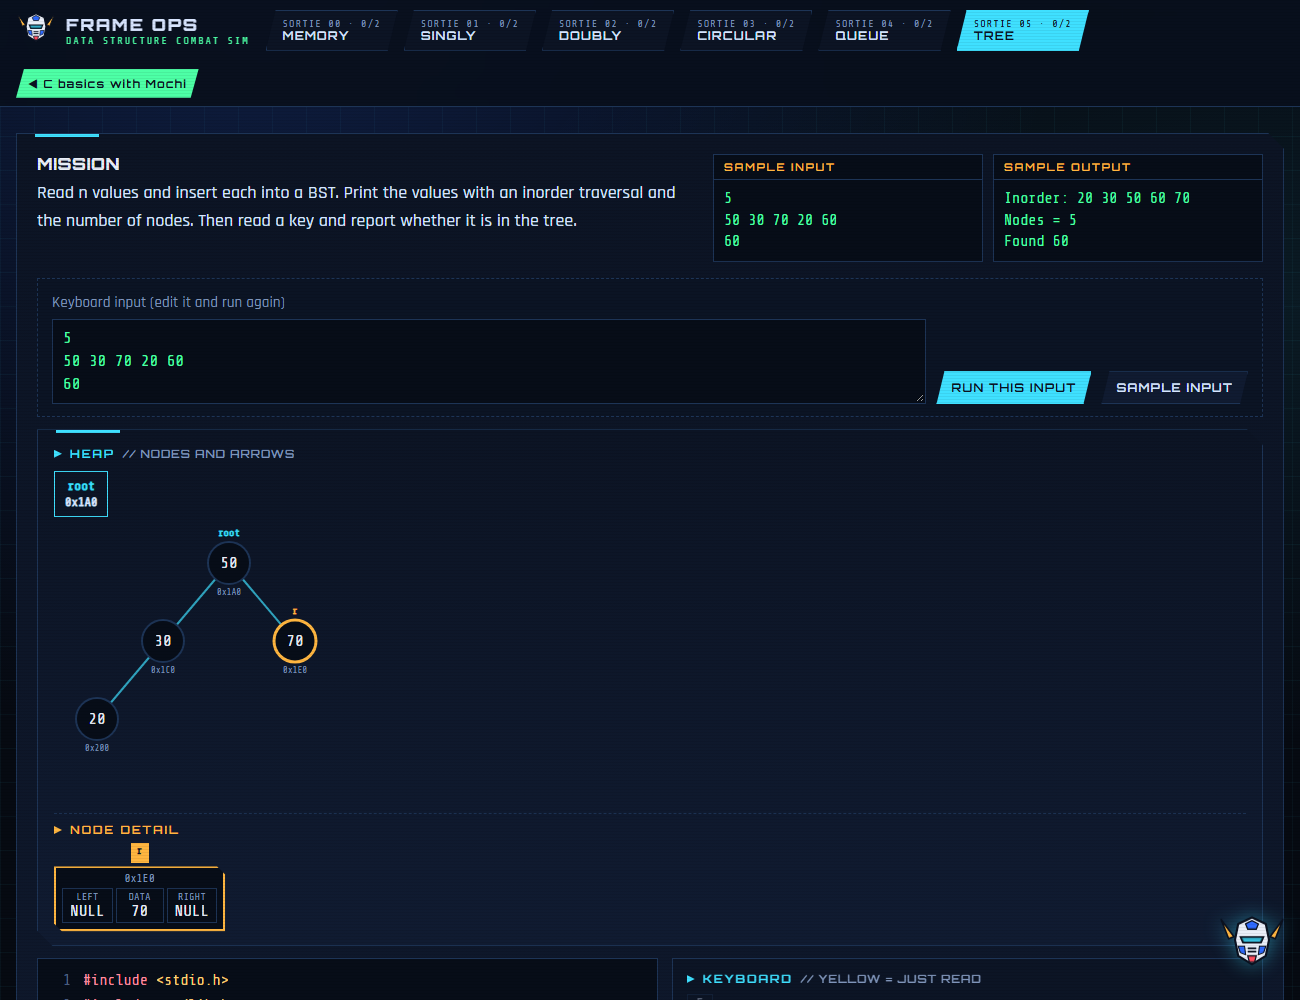
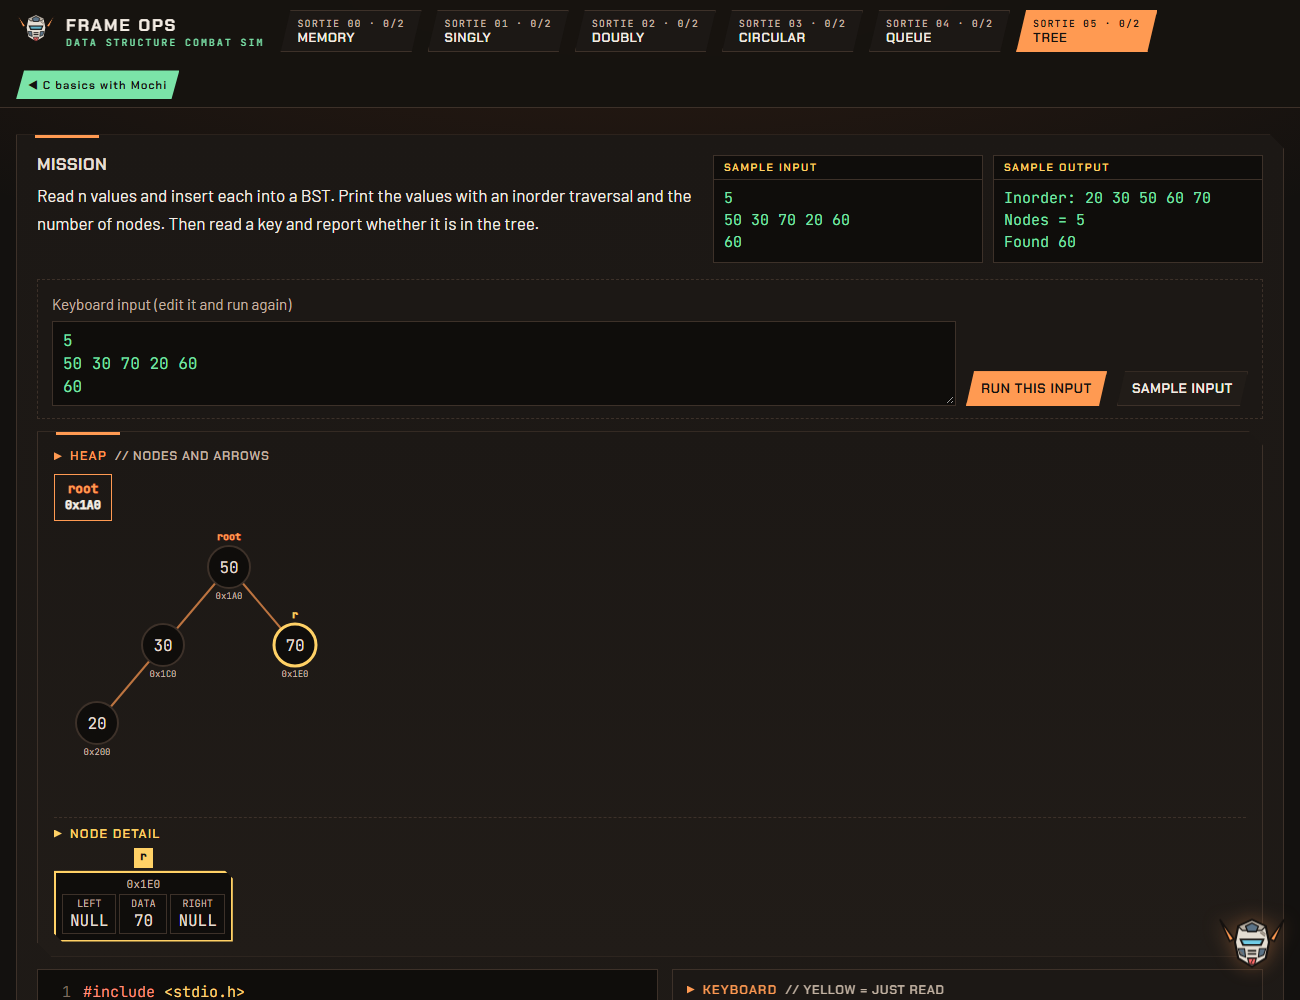
Frame Ops: readable fonts, calmer rust background, battle-worn KESTREL; refresh screenshots

diff --git a/frame-ops.html b/frame-ops.html
@@ -12,49 +12,45 @@ img{max-width:100%}
 <title>Frame Ops</title>
 <link rel="preconnect" href="https://fonts.googleapis.com">
 <link rel="preconnect" href="https://fonts.gstatic.com" crossorigin>
-<link rel="stylesheet" href="https://fonts.googleapis.com/css2?family=Orbitron:wght@600;800&family=Rajdhani:wght@500;600;700&family=Share+Tech+Mono&display=swap">
+<link rel="stylesheet" href="https://fonts.googleapis.com/css2?family=Chakra+Petch:wght@500;600;700&family=Barlow:wght@400;500;600;700&family=JetBrains+Mono:wght@400;500&display=swap">
 <style>
 /* Layout: a mobile-suit cockpit. Sortie tabs on top; each sortie = mission briefing,
    pseudocode tactics, a combat-sim bench (heap view on top, code + stack below), field tests.
    Single dark HUD look by design. */
 :root{
   color-scheme:dark;
-  --bg:#060a12; --panel:#0c1424; --panel2:#101b31; --line:#1d3456; --ink:#d8e5ff; --muted:#7f95ba;
-  --cyan:#3fe0ff; --cyan-soft:rgba(63,224,255,.12); --amber:#ffb640; --amber-soft:rgba(255,182,64,.14);
-  --red:#ff4d5e; --red-soft:rgba(255,77,94,.14); --green:#4dffa6; --green-soft:rgba(77,255,166,.13); --blue:#2f6bff;
-  --armor:#e9eef8; --edge:#0b1220; --code:#070d18;
-  --f-display:"Orbitron","Eurostile","Segoe UI",sans-serif;
-  --f-body:"Rajdhani","Segoe UI",system-ui,sans-serif;
-  --f-mono:"Share Tech Mono","Consolas",ui-monospace,monospace;
-  --cut:polygon(0 0,calc(100% - 16px) 0,100% 16px,100% 100%,16px 100%,0 calc(100% - 16px));
+  --bg:#13110f; --panel:#1c1815; --panel2:#211c18; --line:#3d3129; --ink:#f3ece3; --muted:#c3b3a3;
+  --cyan:#ff9a52; --cyan-soft:rgba(255,154,82,.14); --amber:#ffd166; --amber-soft:rgba(255,209,102,.14);
+  --red:#ff6b6b; --red-soft:rgba(255,107,107,.14); --green:#7be3a8; --green-soft:rgba(123,227,168,.13); --blue:#5b7387;
+  --armor:#e4ddd2; --edge:#14110f; --code:#0f0d0b;
+  --f-display:"Chakra Petch","Segoe UI",system-ui,sans-serif;
+  --f-body:"Barlow","Segoe UI",system-ui,sans-serif;
+  --f-mono:"JetBrains Mono","Consolas",ui-monospace,monospace;
+  --cut:polygon(0 0,calc(100% - 14px) 0,100% 14px,100% 100%,14px 100%,0 calc(100% - 14px));
 }
-*{box-sizing:border-box}
+*{box-sizing:border-box;font-variant-ligatures:none;font-feature-settings:"liga" 0,"calt" 0}
 html,body{overflow-x:clip}
-body{margin:0;color:var(--ink);font:500 18px/1.55 var(--f-body);background-color:var(--bg);
-  background-image:radial-gradient(ellipse at 20% -10%,rgba(47,107,255,.22),transparent 55%),radial-gradient(ellipse at 100% 30%,rgba(63,224,255,.08),transparent 45%),
-  linear-gradient(rgba(63,224,255,.045) 1px,transparent 1px),linear-gradient(90deg,rgba(63,224,255,.045) 1px,transparent 1px);
-  background-size:auto,auto,34px 34px,34px 34px;background-attachment:fixed}
+body{margin:0;color:var(--ink);font:400 17px/1.65 var(--f-body);background-color:var(--bg);background-image:radial-gradient(ellipse 120% 60% at 50% -10%,rgba(201,92,42,.16),transparent 65%);background-attachment:fixed}
 body::before{content:"";position:fixed;inset:0 0 auto;height:env(safe-area-inset-top,0px);z-index:10;background:var(--panel)}
-body::after{content:"";position:fixed;inset:0;pointer-events:none;z-index:30;background:repeating-linear-gradient(0deg,rgba(0,0,0,.18) 0 1px,transparent 1px 3px);opacity:.35}
 .wrap{max-width:1300px;margin:0 auto;padding-left:max(16px,env(safe-area-inset-left,0px));padding-right:max(16px,env(safe-area-inset-right,0px))}
-h1,h2,h3,h4{font-family:var(--f-display);font-weight:800;letter-spacing:.04em;line-height:1.15;margin:0;text-wrap:balance;text-transform:uppercase}
+h1,h2,h3,h4{font-family:var(--f-display);font-weight:700;letter-spacing:.02em;line-height:1.15;margin:0;text-wrap:balance;text-transform:uppercase}
 p{margin:0}
 code{font-family:var(--f-mono);font-size:.92em;color:var(--cyan);background:var(--cyan-soft);padding:0 .3em}
 button{font:inherit;color:inherit}
 :focus-visible{outline:2px solid var(--amber);outline-offset:2px}
 .hud{background:linear-gradient(180deg,var(--panel),var(--panel2));border:1px solid var(--line);clip-path:var(--cut);position:relative}
 .hud::after{content:"";position:absolute;top:0;left:18px;width:64px;height:3px;background:var(--cyan)}
-.lbl{font:600 .72rem var(--f-display);letter-spacing:.16em;text-transform:uppercase;color:var(--cyan);display:flex;gap:8px;align-items:center}
+.lbl{font:600 .78rem var(--f-display);letter-spacing:.1em;text-transform:uppercase;color:var(--cyan);display:flex;gap:8px;align-items:center}
 .lbl::before{content:"";width:8px;height:8px;background:var(--cyan);clip-path:polygon(0 0,100% 50%,0 100%)}
 .lbl em{font-style:normal;color:var(--muted);letter-spacing:.06em}
 
 /* top bar */
-.topbar{position:sticky;top:env(safe-area-inset-top,0px);z-index:8;background:rgba(9,15,28,.92);backdrop-filter:blur(8px);border-bottom:1px solid var(--line)}
+.topbar{position:sticky;top:env(safe-area-inset-top,0px);z-index:8;background:rgba(22,19,16,.95);backdrop-filter:blur(8px);border-bottom:1px solid var(--line)}
 .bar-in{display:flex;align-items:center;gap:16px;flex-wrap:wrap;min-height:64px;padding-block:8px}
 .brand{display:flex;align-items:center;gap:10px;font:800 1.05rem var(--f-display);letter-spacing:.12em;color:var(--ink);text-decoration:none}
 .brand small{display:block;font:500 .62rem var(--f-mono);letter-spacing:.2em;color:var(--green)}
 .tabs{display:flex;gap:6px;overflow-x:auto;flex:1 1 auto;padding-block:2px}
-.tabs a{flex:0 0 auto;text-decoration:none;color:var(--muted);padding:7px 16px 6px;font:600 .74rem var(--f-display);letter-spacing:.1em;border:1px solid var(--line);clip-path:polygon(10px 0,100% 0,calc(100% - 10px) 100%,0 100%);background:var(--panel);display:grid;line-height:1.25}
+.tabs a{flex:0 0 auto;text-decoration:none;color:var(--muted);padding:6px 16px 5px;font:600 .82rem var(--f-display);letter-spacing:.04em;border:1px solid var(--line);clip-path:polygon(10px 0,100% 0,calc(100% - 10px) 100%,0 100%);background:var(--panel);display:grid;line-height:1.25}
 .tabs a b{color:var(--ink);font-weight:600}
 .tabs a span{font:500 .62rem var(--f-mono);letter-spacing:.12em}
 .tabs a[aria-current="page"]{background:var(--cyan);color:var(--edge);border-color:var(--cyan)}
@@ -114,11 +110,11 @@ button{font:inherit;color:inherit}
 /* bench */
 .bench{display:grid;gap:12px}
 .bench>*{min-width:0}
-.inrow{display:flex;flex-wrap:wrap;gap:10px;align-items:flex-end;padding:12px 14px;border:1px dashed var(--line);background:rgba(12,20,36,.7)}
+.inrow{display:flex;flex-wrap:wrap;gap:10px;align-items:flex-end;padding:12px 14px;border:1px dashed var(--line);background:rgba(28,24,21,.75)}
 .inrow label{display:grid;gap:4px;color:var(--muted);font-size:.95rem;flex:1 1 230px}
 .inrow textarea{font:16px/1.45 var(--f-mono);background:var(--code);color:var(--green);border:1px solid var(--line);padding:7px 10px;resize:vertical;width:100%;min-height:2.6em}
 .inerr{width:100%;color:var(--red)}
-.btn{border:1px solid var(--line);background:var(--panel2);padding:8px 14px;font:600 .74rem var(--f-display);letter-spacing:.1em;text-transform:uppercase;cursor:pointer;clip-path:polygon(8px 0,100% 0,calc(100% - 8px) 100%,0 100%);color:var(--ink)}
+.btn{border:1px solid var(--line);background:var(--panel2);padding:8px 14px;font:600 .85rem var(--f-display);letter-spacing:.04em;text-transform:uppercase;cursor:pointer;clip-path:polygon(8px 0,100% 0,calc(100% - 8px) 100%,0 100%);color:var(--ink)}
 .btn:hover{border-color:var(--cyan);color:var(--cyan)}
 .btn.go{background:var(--amber);border-color:var(--amber);color:var(--edge)}
 .btn.go:hover{color:var(--edge);filter:brightness(1.08)}
@@ -172,26 +168,26 @@ svg.tree .tag.cyan{fill:var(--cyan)}svg.tree .tag.amber{fill:var(--amber)}
 .bgrid{display:grid;grid-template-columns:minmax(0,1.05fr) minmax(0,1fr);gap:14px;align-items:start}
 .left,.right{display:grid;gap:12px;min-width:0}
 .code{background:var(--code);border:1px solid var(--line);padding:10px 0;overflow-x:auto;font:15px/1.65 var(--f-mono);max-height:560px;overflow-y:auto}
-.ln{display:grid;grid-template-columns:2.8em max-content;min-width:100%;width:max-content;text-align:left;background:none;border:0;border-left:3px solid transparent;padding:0 14px 0 0;cursor:pointer;white-space:pre;font:inherit;color:#c9d6ef}
-.ln .num{color:#4d6286;text-align:right;padding-right:12px;user-select:none}
-.ln:hover{background:rgba(63,224,255,.06)}
+.ln{display:grid;grid-template-columns:2.8em max-content;min-width:100%;width:max-content;text-align:left;background:none;border:0;border-left:3px solid transparent;padding:0 14px 0 0;cursor:pointer;white-space:pre;font:inherit;color:#ece3d8}
+.ln .num{color:#7d6c5f;text-align:right;padding-right:12px;user-select:none}
+.ln:hover{background:rgba(255,154,82,.07)}
 .ln.cur{background:rgba(255,182,64,.16);border-left-color:var(--amber)}
 .ln.cur .num{color:var(--amber)}
 .ln.peek{outline:1px dashed var(--cyan);outline-offset:-2px}
-.t-kw{color:#ff8fa0}.t-type{color:#7fd3ff}.t-str{color:#ffd27a}.t-num{color:#c6a6ff}.t-com{color:#5c7398;font-style:italic}.t-fn{color:#78ffc4}
+.t-kw{color:#ff8f7a}.t-type{color:#8fd0ff}.t-str{color:#ffd27a}.t-num{color:#d2b3ff}.t-com{color:#8a7a6d;font-style:italic}.t-fn{color:#78ffc4}
 .ctrl{display:flex;flex-wrap:wrap;gap:8px;align-items:center}
 .ctrl .next{flex:1 1 140px;font-size:.82rem;padding:11px 16px}
 .prog{display:flex;align-items:center;gap:10px;width:100%;font:.85rem var(--f-mono);color:var(--muted)}
 .bar{flex:1;height:6px;background:var(--panel);border:1px solid var(--line)}
 .bar i{display:block;height:100%;background:linear-gradient(90deg,var(--cyan),var(--green));transition:width .2s}
-.tact{padding:14px 16px;display:grid;gap:8px;border:1px solid var(--amber);background:linear-gradient(180deg,rgba(255,182,64,.08),rgba(12,20,36,.6));clip-path:var(--cut)}
+.tact{padding:14px 16px;display:grid;gap:8px;border:1px solid var(--amber);background:linear-gradient(180deg,rgba(255,182,64,.08),rgba(28,24,21,.6));clip-path:var(--cut)}
 .tact .th{display:flex;gap:10px;align-items:center;flex-wrap:wrap}
 .tact .th .lbl{color:var(--amber)}.tact .th .lbl::before{background:var(--amber)}
 .tact .th code{background:none;color:var(--armor);white-space:pre-wrap;padding:0}
 .tact .now{font-size:1.1rem;line-height:1.5}
 .tact .about{font-size:.98rem;color:var(--muted);border-top:1px dashed var(--line);padding-top:7px}
 .tact .about b{color:var(--ink)}
-.panel{padding:12px 14px;border:1px solid var(--line);background:rgba(12,20,36,.75)}
+.panel{padding:12px 14px;border:1px solid var(--line);background:rgba(28,24,21,.8)}
 .panel .lbl{margin-bottom:8px}
 .tape{display:grid;gap:5px;font:15px var(--f-mono)}
 .tline{display:flex;flex-wrap:wrap;gap:5px}
@@ -224,7 +220,7 @@ details.every summary{cursor:pointer;font:600 .8rem var(--f-display);letter-spac
 .ew table{border-collapse:collapse;width:100%;font-size:1rem}
 .ew td{padding:7px 10px;border-top:1px solid var(--line);vertical-align:top}
 .ew td.n{font:.8rem var(--f-mono);color:var(--muted);text-align:right;width:2.6em}
-.ew td.s{font:14px/1.5 var(--f-mono);white-space:pre;background:var(--code);color:#c9d6ef;min-width:16em}
+.ew td.s{font:14px/1.5 var(--f-mono);white-space:pre;background:var(--code);color:#ece3d8;min-width:16em}
 .ew td.t{min-width:16em;color:var(--muted)}
 .ew td.t code{color:var(--cyan)}
 
@@ -239,8 +235,8 @@ details.every summary{cursor:pointer;font:600 .8rem var(--f-display);letter-spac
 .ex-h h3{font-size:1rem;color:var(--armor);flex:1 1 14em}
 .tick{color:var(--green);font:600 .74rem var(--f-display);letter-spacing:.1em}
 .q{font-weight:700;color:var(--armor)}
-.excode{background:var(--code);border:1px solid var(--line);padding:10px 14px;font:15px/1.65 var(--f-mono);white-space:pre;overflow-x:auto;margin:0;color:#c9d6ef}
-.excode input{font:15px var(--f-mono);background:#1a2a48;color:var(--amber);border:1px dashed var(--amber);padding:0 5px}
+.excode{background:var(--code);border:1px solid var(--line);padding:10px 14px;font:15px/1.65 var(--f-mono);white-space:pre;overflow-x:auto;margin:0;color:#ece3d8}
+.excode input{font:15px var(--f-mono);background:#2a211b;color:var(--amber);border:1px dashed var(--amber);padding:0 5px}
 .ans{display:flex;flex-wrap:wrap;gap:10px;align-items:center}
 .ans input{font:16px var(--f-mono);padding:7px 10px;background:var(--code);color:var(--green);border:1px solid var(--line);width:16em;max-width:100%}
 .choices{display:grid;gap:8px}
@@ -257,20 +253,20 @@ details.every summary{cursor:pointer;font:600 .8rem var(--f-display);letter-spac
 /* KESTREL: comm panel + launch */
 .comm{position:fixed;right:calc(14px + env(safe-area-inset-right,0px));bottom:calc(14px + env(safe-area-inset-bottom,0px));z-index:20;display:flex;align-items:flex-end;gap:8px;pointer-events:none}
 .comm>*{pointer-events:auto}
-.msg{max-width:min(320px,calc(100vw - 120px));background:rgba(9,15,28,.96);border:1px solid var(--cyan);clip-path:var(--cut);padding:10px 30px 12px 14px;position:relative;box-shadow:0 0 24px rgba(63,224,255,.25)}
+.msg{max-width:min(320px,calc(100vw - 120px));background:rgba(24,20,17,.97);border:1px solid var(--cyan);clip-path:var(--cut);padding:10px 30px 12px 14px;position:relative;box-shadow:0 0 24px rgba(255,154,82,.22)}
 .msg .mh{font:600 .66rem var(--f-display);letter-spacing:.16em;color:var(--cyan);margin-bottom:4px}
 .msg .mh b{color:var(--amber);font-weight:600}
 .msg p{font-size:1rem;line-height:1.4}
 .msg.in{animation:comm .35s ease-out}
 @keyframes comm{0%{transform:translateX(18px);opacity:0}100%{transform:none;opacity:1}}
 .msg-x{position:absolute;top:2px;right:6px;border:0;background:none;color:var(--muted);cursor:pointer;font-size:1.1rem}
-.pilot{background:none;border:0;padding:0;cursor:pointer;filter:drop-shadow(0 0 10px rgba(63,224,255,.45));animation:hover 3s ease-in-out infinite}
+.pilot{background:none;border:0;padding:0;cursor:pointer;filter:drop-shadow(0 0 10px rgba(255,154,82,.35));animation:hover 3s ease-in-out infinite}
 .comm.away .pilot{opacity:0}
 @keyframes hover{0%,100%{transform:translateY(0)}50%{transform:translateY(-5px)}}
 .mech .visor{animation:visor 2.4s ease-in-out infinite}
 @keyframes visor{0%,100%{opacity:1}50%{opacity:.55}}
 .launch{position:fixed;left:-140px;bottom:calc(20px + env(safe-area-inset-bottom,0px));z-index:19;pointer-events:none;display:flex;align-items:center;visibility:hidden}
-.launch .trail{width:120px;height:10px;background:linear-gradient(90deg,transparent,rgba(63,224,255,.8),#fff);clip-path:polygon(0 40%,100% 0,100% 100%,0 60%);margin-right:-12px}
+.launch .trail{width:120px;height:10px;background:linear-gradient(90deg,transparent,rgba(255,154,82,.8),#fff);clip-path:polygon(0 40%,100% 0,100% 100%,0 60%);margin-right:-12px}
 .launch.go{visibility:visible;animation:launch 1.9s cubic-bezier(.6,.05,.3,1) forwards}
 @keyframes launch{0%{transform:translate(0,0)}55%{transform:translate(55vw,-60px)}100%{transform:translate(calc(100vw + 20px),0)}}
 /* part switch, intel, storyboards, array view, Q&A */
@@ -287,11 +283,11 @@ details.every summary{cursor:pointer;font:600 .8rem var(--f-display);letter-spac
 .tbl td{padding:8px 10px;border-bottom:1px solid var(--line);vertical-align:top}
 .tbl td:first-child{color:var(--armor);font-weight:700}
 .story{display:flex;gap:12px;overflow-x:auto;padding-bottom:6px}
-.frame-s{flex:0 0 auto;min-width:260px;max-width:520px;border:1px solid var(--line);background:rgba(7,13,24,.7);padding:10px 12px;display:grid;gap:8px;align-content:start}
+.frame-s{flex:0 0 auto;min-width:260px;max-width:520px;border:1px solid var(--line);background:rgba(15,13,11,.75);padding:10px 12px;display:grid;gap:8px;align-content:start}
 .frame-s .sn{font:600 .66rem var(--f-display);letter-spacing:.16em;color:var(--amber)}
 .frame-s p{font-size:.98rem}
 .frame-s .chain{min-height:70px}
-.qa{border:1px solid var(--line);background:rgba(12,20,36,.7)}
+.qa{border:1px solid var(--line);background:rgba(28,24,21,.75)}
 .qa summary{cursor:pointer;padding:10px 14px;font-weight:700;color:var(--armor);list-style-position:inside}
 .qa summary::marker{color:var(--cyan)}
 .qa div{padding:0 14px 12px;color:var(--ink);border-top:1px dashed var(--line);padding-top:8px}
@@ -300,7 +296,7 @@ details.every summary{cursor:pointer;font:600 .8rem var(--f-display);letter-spac
 .acell{display:grid;justify-items:center;gap:2px}
 .atags{min-height:20px;display:flex;gap:3px}
 .abox{min-width:54px;height:46px;display:grid;place-items:center;border:2px solid var(--line);background:var(--code);font:600 1.1rem var(--f-mono);color:var(--muted)}
-.acell.in .abox{color:var(--armor);border-color:var(--cyan);background:rgba(63,224,255,.08)}
+.acell.in .abox{color:var(--armor);border-color:var(--cyan);background:rgba(255,154,82,.08)}
 .acell.hl .abox{border-color:var(--amber);box-shadow:0 0 14px rgba(255,182,64,.35)}
 .acell.chg .abox{border-color:var(--green);background:var(--green-soft);animation:pulse .5s}
 .aidx{font:.75rem var(--f-mono);color:var(--muted)}
@@ -482,13 +478,16 @@ function intelHtml(b){
 function mech(size=64,cls=''){
   const e='var(--edge)';
   return `<svg class="mech ${cls}" width="${size}" height="${size}" viewBox="0 0 64 64" aria-hidden="true">
-  <path d="M15 27 L3 11 L10 29 Z" fill="var(--amber)" stroke="${e}" stroke-width="1.5" stroke-linejoin="round"/><path d="M49 27 L61 11 L54 29 Z" fill="var(--amber)" stroke="${e}" stroke-width="1.5" stroke-linejoin="round"/>
+  <path d="M15 27 L2 9 L11 29 Z" fill="var(--cyan)" stroke="${e}" stroke-width="1.5" stroke-linejoin="round"/><path d="M49 27 L62 9 L53 29 Z" fill="var(--cyan)" stroke="${e}" stroke-width="1.5" stroke-linejoin="round"/>
   <path d="M16 30 L19 15 L32 9 L45 15 L48 30 L45 45 L32 53 L19 45 Z" fill="var(--armor)" stroke="${e}" stroke-width="2" stroke-linejoin="round"/>
+  <path d="M19 15 L32 9 L45 15 L41 19 L23 19 Z" fill="#b9b0a4" stroke="${e}" stroke-width="1.2"/>
   <path d="M26 15 L32 12 L38 15 L36 20 L28 20 Z" fill="var(--blue)" stroke="${e}" stroke-width="1.2"/>
-  <path d="M20 26.5 L44 26.5 L41 33.5 L23 33.5 Z" fill="${e}"/><path d="M22.5 28.3 L41.5 28.3 L39.6 31.7 L24.4 31.7 Z" fill="var(--cyan)" class="visor"/>
+  <path d="M20 26.5 L44 26.5 L41 33.5 L23 33.5 Z" fill="${e}"/><path d="M22.5 28.3 L41.5 28.3 L39.6 31.7 L24.4 31.7 Z" fill="#7be3ff" class="visor"/>
   <path d="M19 36 L25 36 L26 44 L21 42 Z M45 36 L39 36 L38 44 L43 42 Z" fill="var(--blue)" stroke="${e}" stroke-width="1"/>
   <path d="M28 38 L36 38 M28 41 L36 41" stroke="${e}" stroke-width="1.6"/>
-  <path d="M28 45 L36 45 L34.5 51 L29.5 51 Z" fill="var(--red)" stroke="${e}" stroke-width="1.2"/></svg>`;
+  <path d="M28 45 L36 45 L34.5 51 L29.5 51 Z" fill="var(--red)" stroke="${e}" stroke-width="1.2"/>
+  <path d="M40 21 L44 24 M41.5 20 L44.5 22.3 M20 38 L23 41" stroke="#7a6e62" stroke-width="1.1" stroke-linecap="round"/>
+  <path d="M33 46 L31 50" stroke="${e}" stroke-width=".9"/></svg>`;
 }
 const Comm=(()=>{
   const reduce=window.matchMedia&&matchMedia('(prefers-reduced-motion: reduce)').matches;
